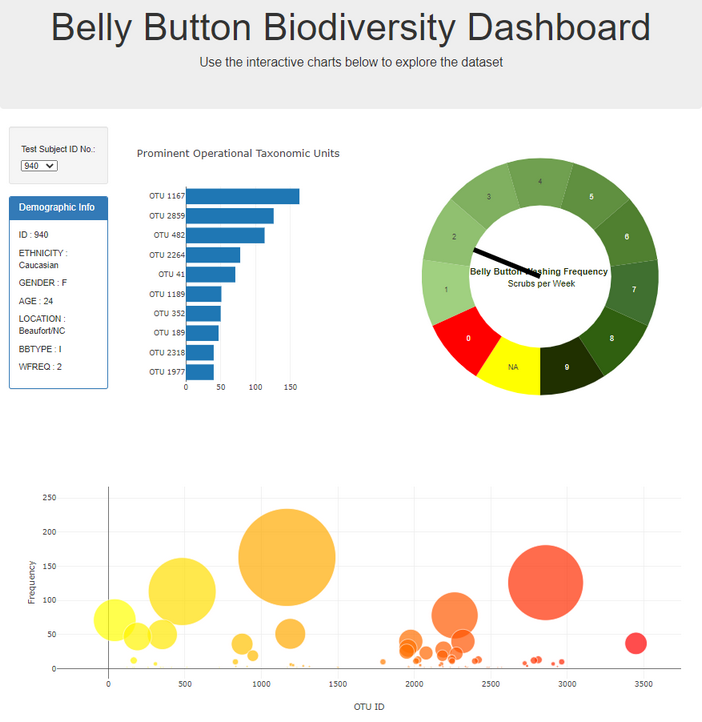
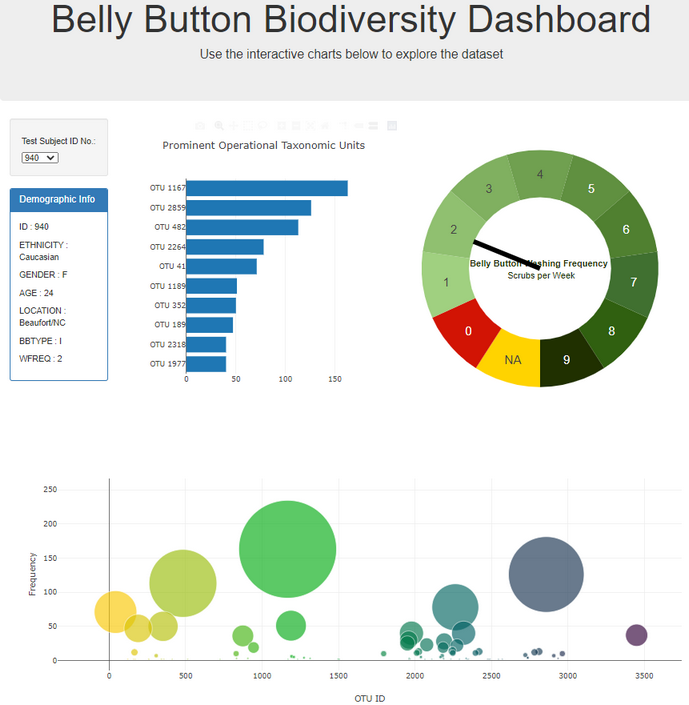
update
more indepth  color  and removed two unneeded variables thanks to switch/ case

diff --git a/static/js/app.js b/static/js/app.js
@@ -71,9 +71,9 @@ function getPlots(id) {
             marker: {
                 size: sampleValuesAll,
                 color: otuIdsAll,
-                colorscale: [[0, 'yellow'], [1, 'red']],
+                colorscale: [[0, '#f9c802'], [0.33, '#03ac13'], [0.67, '#016064'], [1, '#300038']],
                 symbol: "circle",
-                opacity: 0.7
+                opacity: 0.65
             },
             text: otuLabelsAll
         };
@@ -117,42 +117,6 @@ function getDemoGraphic(id) {
         ////////// pie with needle //////////////
         var washFrequency = selectedSample2.wfreq;
         console.log(`Wash Frequency: ${washFrequency}`);
-
-        var data3 = [{
-            type: "pie",
-            showlegend: false,
-            hole: 0.6,
-            rotation: 180,
-            direction: "clockwise",
-            textinfo: "text",
-            textposition: "inside",
-            values: [360/11,360/11,360/11,360/11,360/11,360/11,360/11,360/11,360/11,360/11,360/11],
-            text: ["NA","0","1","2","3","4","5","6","7","8","9"],
-            hoverinfo: "skip",
-            marker: { 
-                colors: ["yellow", "red", "#a0d080", "#90c070", "#80b060", "#70a050", "#609040", "#508030", "#407030", "#306010", "#203000"],
-                labels: ["NA","0", "1", "2", "3","4","5","6","7","8","9"],
-                hoverinfo: "skip"
-            },
-            title: {text: "<b>Belly Button Washing Frequency</b> <br> Scrubs per Week",
-                    font: { size: 18} },
-            
-        }];
-        // // Tied to have a center dot to make pointer look nicer
-        // var center = {
-        //     type: "scatter", 
-        //     x: [0],
-        //     y: [0],
-        //     marker :{
-        //         size: 20,
-        //         color: "black"
-        //     },
-        //     showlegdend: false,
-        //     hoverinfo: "skip"
-        // };
-
-        var xOne = 0.41;
-        var yOne = 0.27;
 
         switch (washFrequency) {
             case 0:
@@ -200,8 +164,41 @@ function getDemoGraphic(id) {
                 var yOne= 0.27;
                 break;
         };
-           
-        
+
+        var data3 = [{
+            type: "pie",
+            showlegend: false,
+            hole: 0.6,
+            rotation: 180,
+            direction: "clockwise",
+            textinfo: "text",
+            textposition: "inside",
+            values: [360/11,360/11,360/11,360/11,360/11,360/11,360/11,360/11,360/11,360/11,360/11],
+            text: ["NA","0","1","2","3","4","5","6","7","8","9"],
+            hoverinfo: "skip",
+            marker: { 
+                colors: ["#ffd300", "#d21404", "#a0d080", "#90c070", "#80b060", "#70a050", "#609040", "#508030", "#407030", "#306010", "#203000"],
+                labels: ["NA","0", "1", "2", "3","4","5","6","7","8","9"],
+                hoverinfo: "skip"
+            },
+            title: {text: "<b>Belly Button Washing Frequency</b> <br> Scrubs per Week",
+                    font: { size: 18} },
+            
+        }];
+              
+        // // Tied to have a center dot to make pointer look nicer
+        // var center = {
+        //     type: "scatter", 
+        //     x: [0],
+        //     y: [0],
+        //     marker :{
+        //         size: 20,
+        //         color: "black"
+        //     },
+        //     showlegdend: false,
+        //     hoverinfo: "skip"
+        // };
+
         var layout3 = {
             width: 400,
             height: 500,
